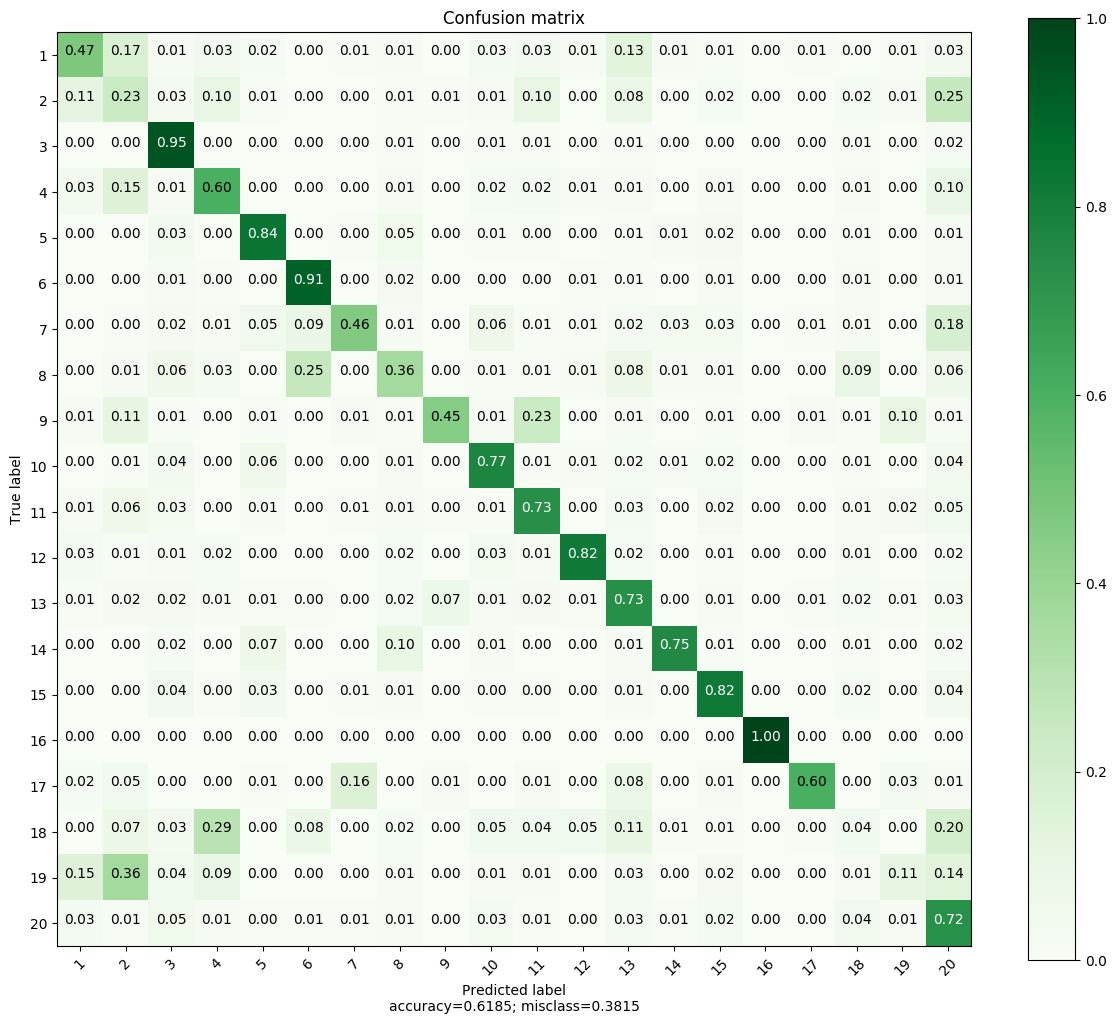
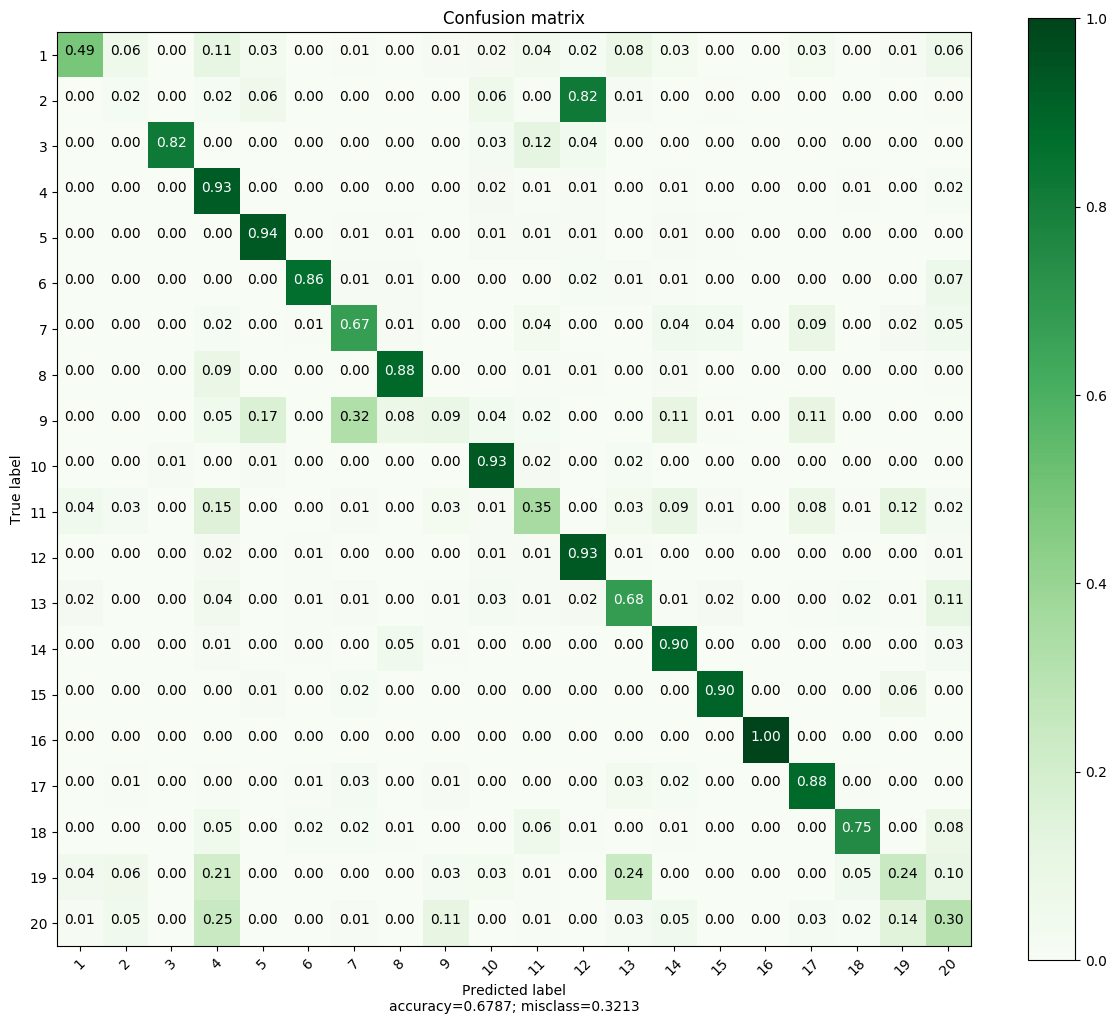
94/90 when running this on the clean data
so we could probably get some mileage out of both increasing the size of
the network and the data set. test data is again really bad, at 67%
accuracy, which I don't understand, because we're not overfitting to the
dev set so I suspect something is wrong with the test set calculation.

diff --git a/train_cnn_on_waveform.py b/train_cnn_on_waveform.py
@@ -67,7 +67,8 @@ HALF_SECOND_OF_SAMPLES = int(SAMPLE_RATE / 2)
 
 # %%
 (network_inputs, labels) = generate_raw_dataset_from_mp3s_in_parallel(
-        NUM_SPEAKERS, MINUTES_PER_SPEAKER, directory="noisy_top_20")
+        NUM_SPEAKERS, MINUTES_PER_SPEAKER, directory="top20_mp3")
+#        NUM_SPEAKERS, MINUTES_PER_SPEAKER, directory="noisy_top_20")
 
 # Conv1D expects there to be existing channels so add another dimension to the
 # shape.
@@ -85,7 +86,7 @@ assert train_dev_labels.shape == (NUM_SAMPLES, NUM_SPEAKERS), train_dev_labels.s
 
 # TODO(dgrogan): We'll need a proper test set.
 (test_set_inputs, test_set_labels) = generate_raw_dataset_from_mp3s_in_parallel(
-        NUM_SPEAKERS, minutes_per_speaker=10, directory="noisy_top_20")
+        NUM_SPEAKERS, minutes_per_speaker=10, directory="top20_mp3")
 test_set_inputs = np.expand_dims(test_set_inputs, axis=-1)
 
 assert len(test_set_inputs.shape) == 3, test_set_inputs.shape
